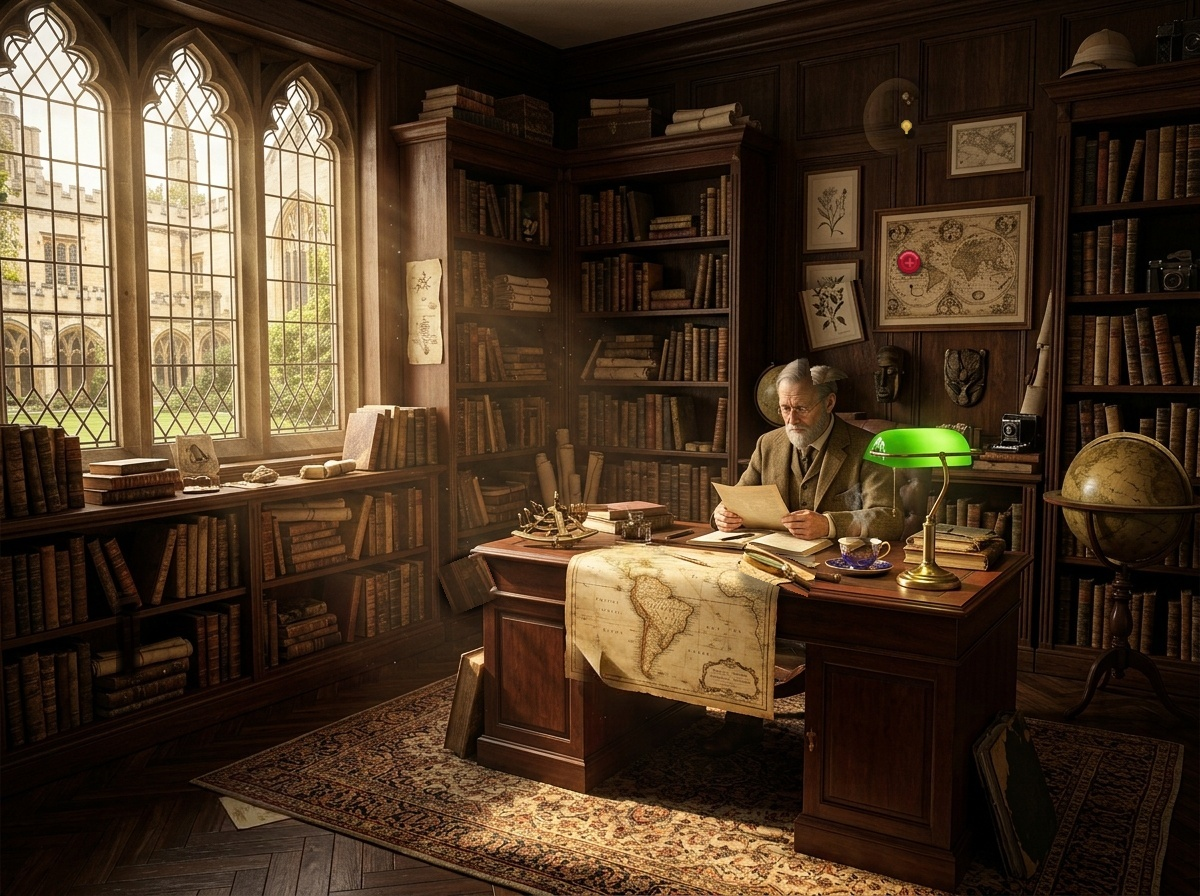
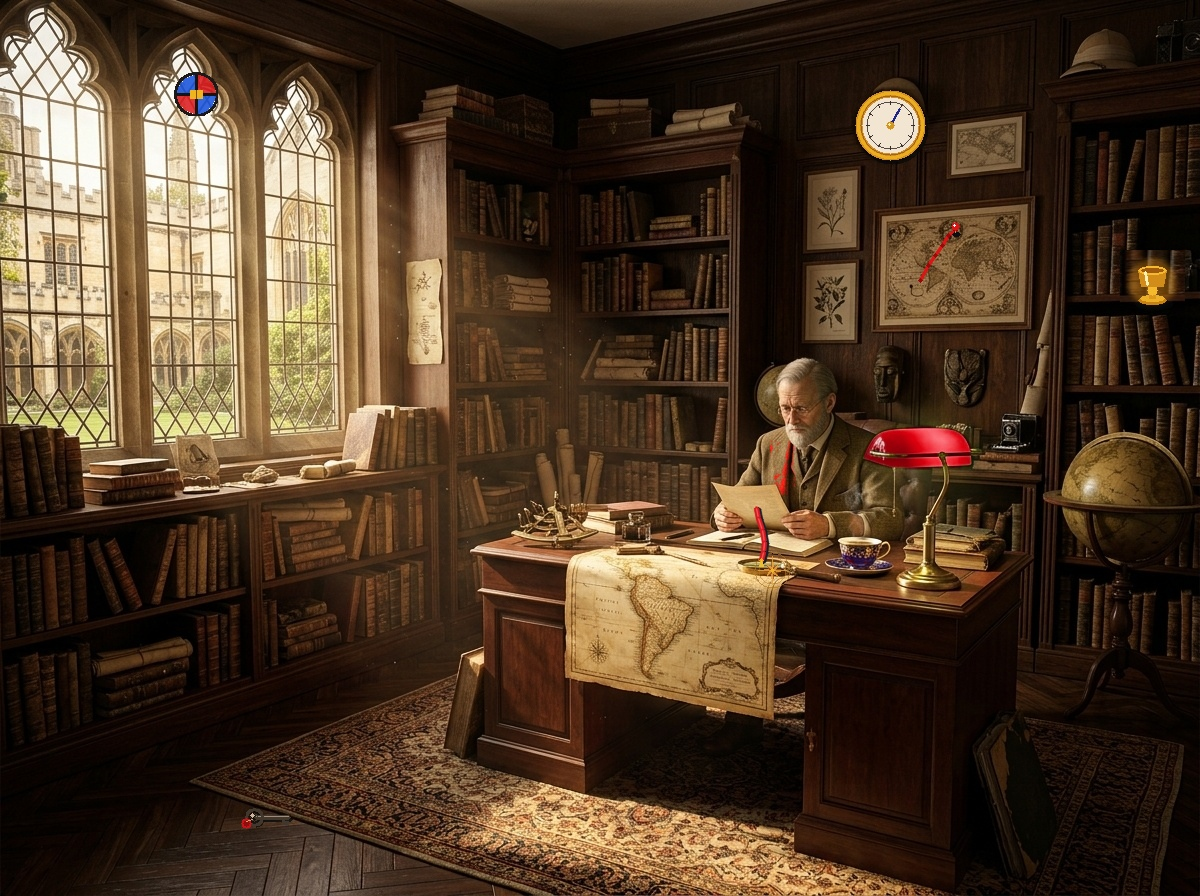
feat(level1): replace blurry inpainting with 10 real photorealistic archeological differences

diff --git a/src/data/levelRegistry.ts b/src/data/levelRegistry.ts
@@ -24,6 +24,7 @@ export function generateAll120Levels(): Level[] {
     }
 
     const isMilestoneLevel = id % 10 === 0;
+    const isLevelOne = id === 1;
     const isLevelTwo = id === 2;
     const isLevelThree = id === 3;
     const isLevelFour = id === 4;
@@ -726,7 +727,20 @@ export function generateAll120Levels(): Level[] {
 
     // Exactly 10 calibrated, physical non-color differences per level
     let diffsForLevel: Difference[];
-    if (isLevelTwo) {
+    if (isLevelOne) {
+      diffsForLevel = [
+        { id: `lvl${id}_d1`, x: 76.50, y: 47.99, radius: 5.0, name: "La Lampada da Banchiere in Vetro Rosso Rubino", loreClue: "Il caratteristico paralume in vetro opalino della lampada da tavolo è passato da verde smeraldo a un radioso rosso rubino fiammeggiante." },
+        { id: `lvl${id}_d2`, x: 71.83, y: 62.50, radius: 4.0, name: "La Tazza da Tè di Porcellana Rosso Carminio", loreClue: "La preziosa tazza da tè in porcellana cinese sulla scrivania è smaltata in rosso carminio con filigrana dorata anziché blu cobalto." },
+        { id: `lvl${id}_d3`, x: 74.17, y: 13.95, radius: 4.5, name: "Il Barometro Navale Vittoriano in Ottone", loreClue: "Al posto del casco coloniale in sughero, sulla boiserie in mogano è appeso un antico barometro di precisione della Royal Navy in ottone dorato." },
+        { id: `lvl${id}_d4`, x: 78.33, y: 27.90, radius: 4.0, name: "La Rotta della Spedizione Tracciata in Rosso", loreClue: "Sulla mappa emisferica delle Americhe compare una rotta tracciata a inchiostro rosso con spilla d'orientamento verso il bacino amazzonico." },
+        { id: `lvl${id}_d5`, x: 64.33, y: 63.62, radius: 4.0, name: "La Rosa dei Venti Incisa nella Lente", loreClue: "Nel cristallo ottico della lente d'ingrandimento in ottone è incisa a rilievo una stella nautica a otto punte per il calcolo delle coordinate." },
+        { id: `lvl${id}_d6`, x: 65.17, y: 51.90, radius: 3.5, name: "La Cravatta di Seta Bordeaux del Professore", loreClue: "Il professor Bellini indossa una cravatta in pura seta bordeaux luminescente al posto della sobria cravatta in tweed marrone." },
+        { id: `lvl${id}_d7`, x: 63.33, y: 59.71, radius: 3.5, name: "Il Segnalibro di Seta Rossa con Nappa d'Oro", loreClue: "Tra le pagine ingiallite del grande codice aperto sulla scrivania pende un nastro segnalibro in seta vermiglia con nappa dorata." },
+        { id: `lvl${id}_d8`, x: 96.00, y: 31.47, radius: 4.5, name: "Il Calice Cerimoniale d'Oro Massiccio", loreClue: "Al posto della scura macchina fotografica a soffietto, sul ripiano della libreria brilla un calice d'oro rituale precolombiano." },
+        { id: `lvl${id}_d9`, x: 22.50, y: 90.96, radius: 4.5, name: "La Chiave Monumentale d'Archivio con Ceralacca", loreClue: "Sul parquet a spina di pesce accanto al tappeto persiano giace un'antica chiave in ferro battuto con cartiglio sigillato in ceralacca rossa." },
+        { id: `lvl${id}_d10`, x: 16.33, y: 10.49, radius: 4.5, name: "La Vetrata Araldica nella Bifora Gotica", loreClue: "Nel lobo superiore della finestra ad arco acuto spicca un rosone in vetrata policroma con lo stemma di Oxford in vetro cobalto e rubino." },
+      ];
+    } else if (isLevelTwo) {
       diffsForLevel = [
         { id: `lvl${id}_d1`, x: 52.92, y: 72.54, radius: 5.0, name: "La Lente d'Ingrandimento sulla Pergamena", loreClue: "La monumentale lente d'ingrandimento in argento cesellato è stata rimossa, lasciando visibili le antiche righe in corsivo latino." },
         { id: `lvl${id}_d2`, x: 77.50, y: 63.62, radius: 4.5, name: "Lo Stemma d'Oro di Oxford sul Tomo", loreClue: "Lo stemma nobiliare impresso in foglia d'oro sulla copertina in cuoio del codice scompare nel secondo faldone." },
